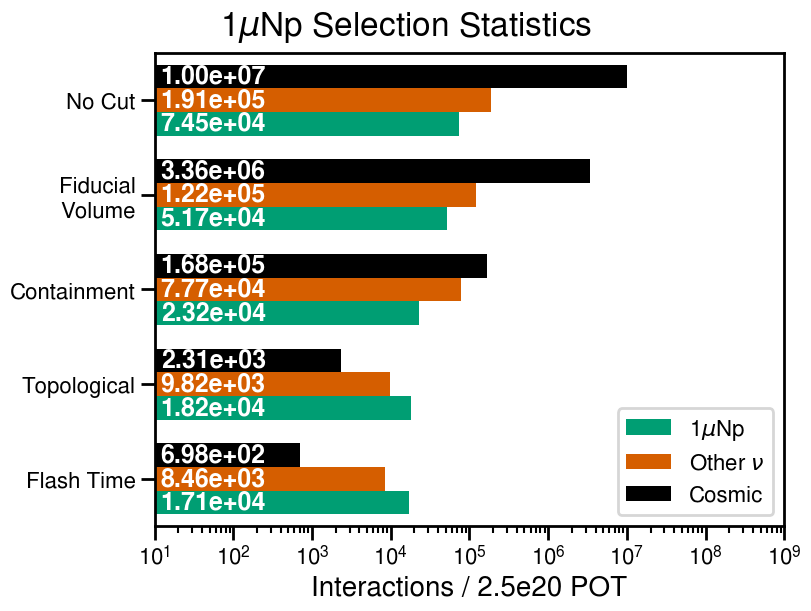
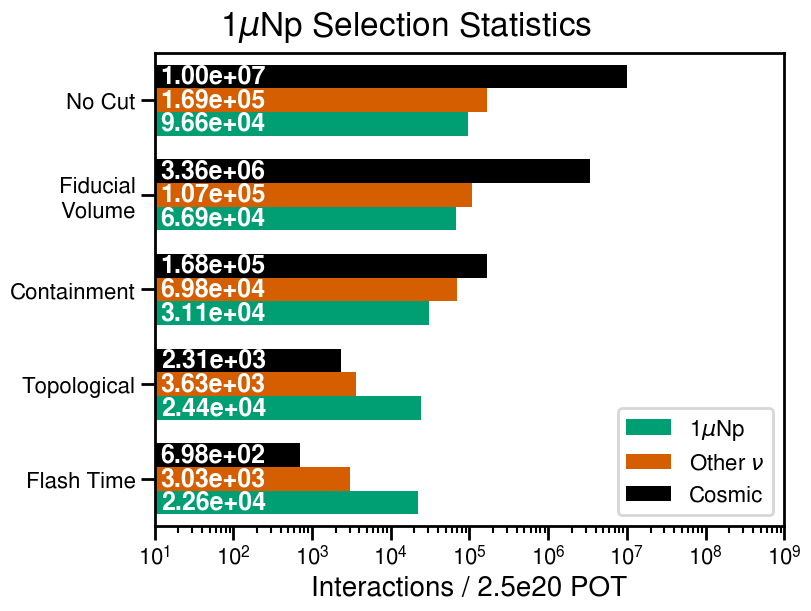
Split 1muNp interactions from the "other nu" category and updated flow plot code and content accordingly

diff --git a/plotting/plot_funcs.py b/plotting/plot_funcs.py
@@ -51,7 +51,7 @@ def plot_flow(rf, desc):
     Parameters
     ----------
     rf: ROOT file (uproot)
-        The opened uproot ROOT file that conains the histogram.
+        The opened uproot ROOT file that contains the histogram.
     desc: PlotDescription
         An instance of the PlotDescription class that describes the plot details.
 
@@ -66,8 +66,9 @@ def plot_flow(rf, desc):
     ylocs = np.arange(len(desc.cuts)) * (bar_size * (npops + 1))
     counts = np.array([load_histograms(rf, f'sCount{desc.direction.upper()}_{c}')[0] for c in desc.cuts])[::-1,:,0]
     for pi, pop in enumerate(desc.pops):
-        ax.barh(ylocs + (pi + npops * -0.5)*bar_size, counts[:,pop], align='edge', height=bar_size, label=desc.labels[pi])
-        for ci, c in enumerate(counts[:,pop]):
+        total = np.sum(counts[:,pop], axis=1) if isinstance(pop, list) else counts[:,pop]
+        ax.barh(ylocs + (pi + npops * -0.5)*bar_size, total, align='edge', height=bar_size, label=desc.labels[pi])
+        for ci, c in enumerate(total):
             plt.text(1.2*10**desc.span[0], ci - (1.0-pi)*bar_size, f'{c:.02e}', color='white', va="center", fontsize=18, weight='bold')
 
     ax.set(yticks=ylocs, yticklabels=desc.clabels[::-1], ylim=[0 - bar_size, len(desc.cuts)])

diff --git a/include/variables.h b/include/variables.h
@@ -28,6 +28,7 @@ namespace vars
      * Variable for enumerating interaction categories. This is a basic
      * categorization using only signal, neutrino background, and cosmic
      * background as the three categories.
+     * 0: 1mu1p, 1: 1muNp (N > 1), 2: Other nu, 3: cosmic
      * @tparam T the type of interaction (true or reco).
      * @param interaction to apply the variable on.
      * @return the enumerated category of the interaction.
@@ -35,9 +36,10 @@ namespace vars
     template<class T>
         double category(const T & interaction)
         {
-            double cat(2);
+            double cat(3);
             if(cuts::signal_1mu1p(interaction)) cat = 0;
-            else if(cuts::other_nu_1mu1p(interaction)) cat = 1;
+            else if(cuts::signal_1muNp(interaction)) cat = 1;
+            else if(cuts::other_nu_1muNp(interaction)) cat = 2;
             return cat;
         }
 
